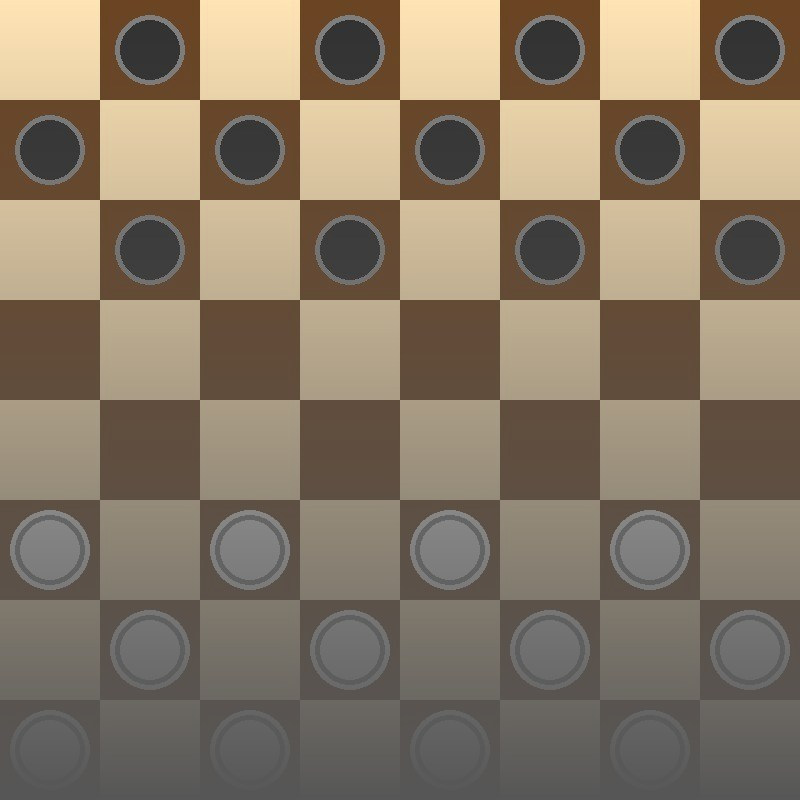
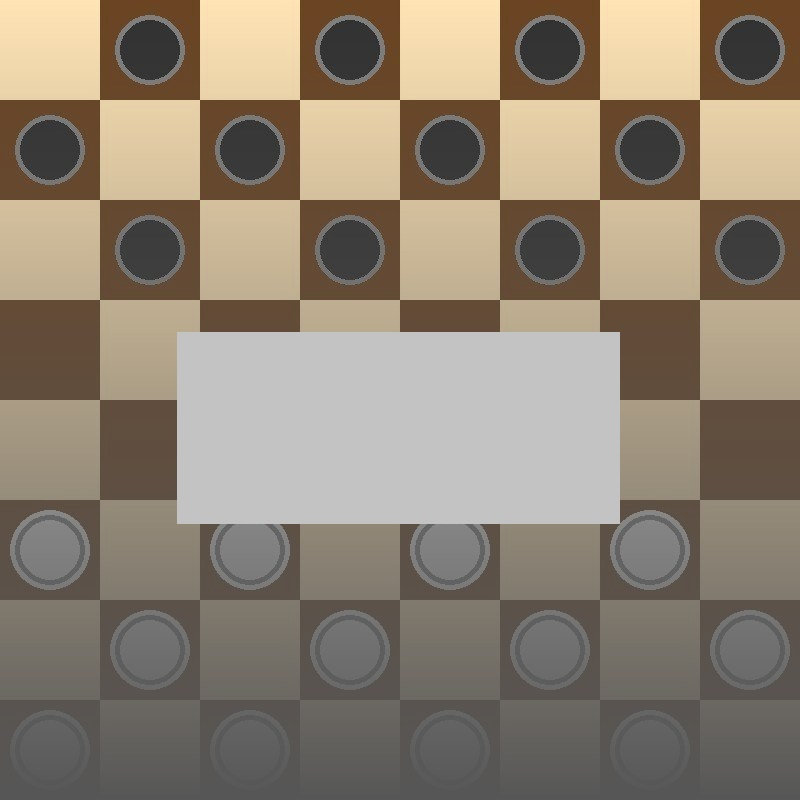
AI menu added

Changed region(s): [[0.2188, 0.4062, 0.7812, 0.6562]]

diff --git a/menu.py b/menu.py
@@ -15,10 +15,12 @@ class Menu:
         self.mytheme.widget_font = pygame_menu.font.FONT_OPEN_SANS_BOLD
         self.menu = pygame_menu.Menu(WIDTH,HEIGHT, 'Checkers', theme=self.mytheme)
         self.winner_screen = pygame_menu.Menu(WIDTH,HEIGHT, 'Checkers', theme=self.mytheme)
+        self.menu_ai = pygame_menu.Menu(WIDTH,HEIGHT, 'Checkers', theme=self.mytheme)
+        self.ai_difficulty = 1
         self.init()
     
     def init(self):
-        self.menu.add_button('Play against the Computer', self.start_the_game_ai)
+        self.menu.add_button('Play against the Computer', self.open_menu_ai)
         self.menu.add_button('Play Local Multiplayer', self.start_the_game)
         self.menu.add_button('Quit', pygame_menu.events.EXIT)
         self.menu.mainloop(self.win)
@@ -43,6 +45,16 @@ class Menu:
 
             game.update()
     
+    def open_menu_ai(self):
+        self.menu_ai.add_selector('Difficulty: ', [('Beginner', 1),('Easy', 2),('Hard', 5)], onchange=self.set_ai_difficulty)
+        self.menu_ai.add_button('Start', self.start_the_game_ai)
+        self.menu_ai.add_button('Quit', pygame_menu.events.EXIT)
+        self.menu_ai.mainloop(self.win)
+
+    
+    def set_ai_difficulty(self, selected, value):
+        self.ai_difficulty = value
+
     def start_the_game_ai(self):
         run = True
         clock = pygame.time.Clock()
@@ -51,7 +63,7 @@ class Menu:
             clock.tick(self.fps)
 
             if game.turn == BLACK:
-                value, new_board = minimax(game.get_board(), 3, BLACK, game)
+                value, new_board = minimax(game.get_board(), self.ai_difficulty, BLACK, game)
                 game.ai_move(new_board)
                 time.sleep(1)
 

diff --git a/README.md b/README.md
@@ -1,3 +1,4 @@
 # checkers-pygame
 Simple checkers pygame that will have AI
 ![preview](preview.png)
+![ai_menu](ai_menu.png)
